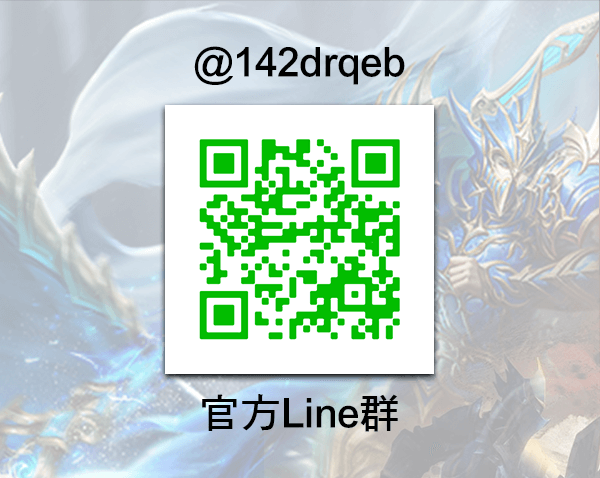
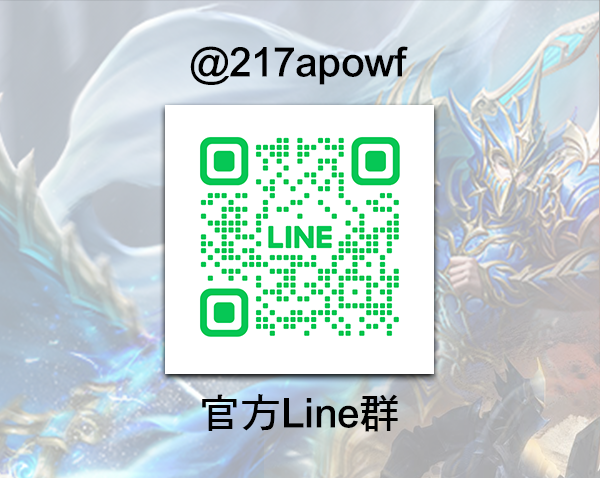
2024

Changed region(s): [[0.33, 0.2636, 0.69, 0.7322], [0.3, 0.0879, 0.69, 0.1757]]

diff --git a/seemiracle/index.html b/seemiracle/index.html
@@ -123,7 +123,7 @@
                 </v-row>
                 <v-row no-gutters>
                     <v-col>
-                        <a href="https://reurl.cc/6vMOvM">
+                        <a href="://lin.ee/RJqrpYq">
                             <v-img
                             src="images/12.png"
                             ></v-img>
